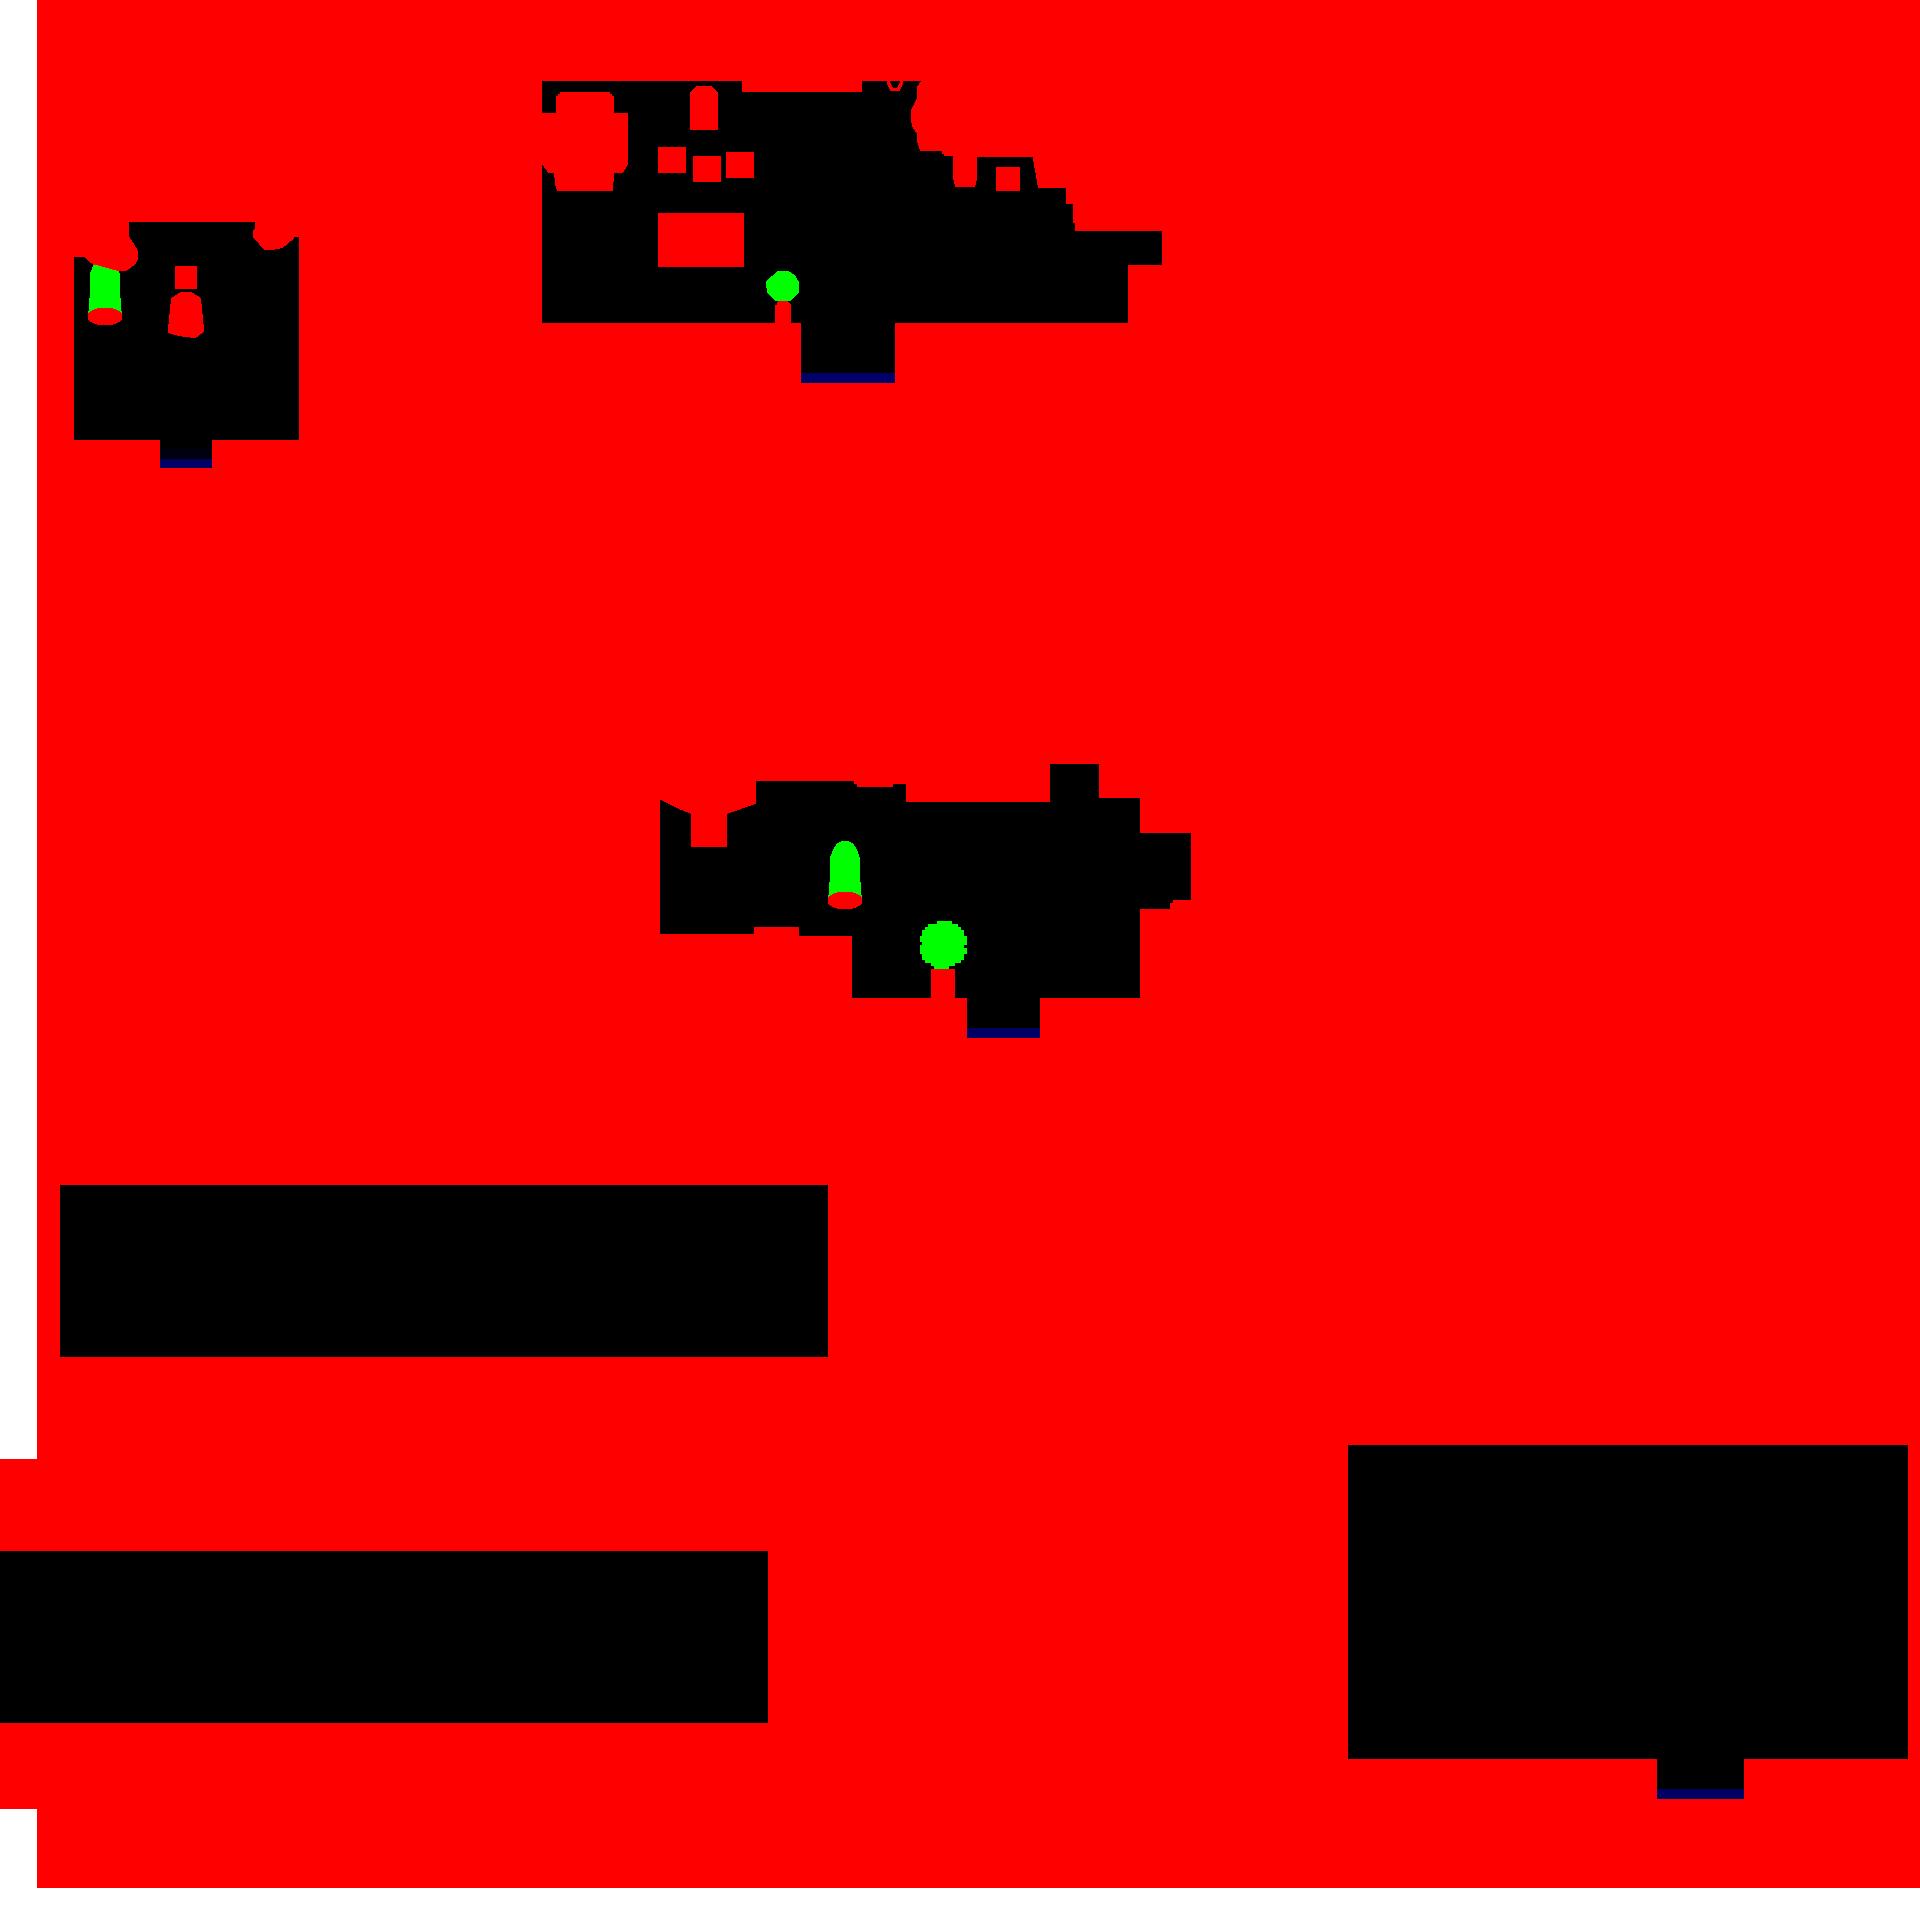
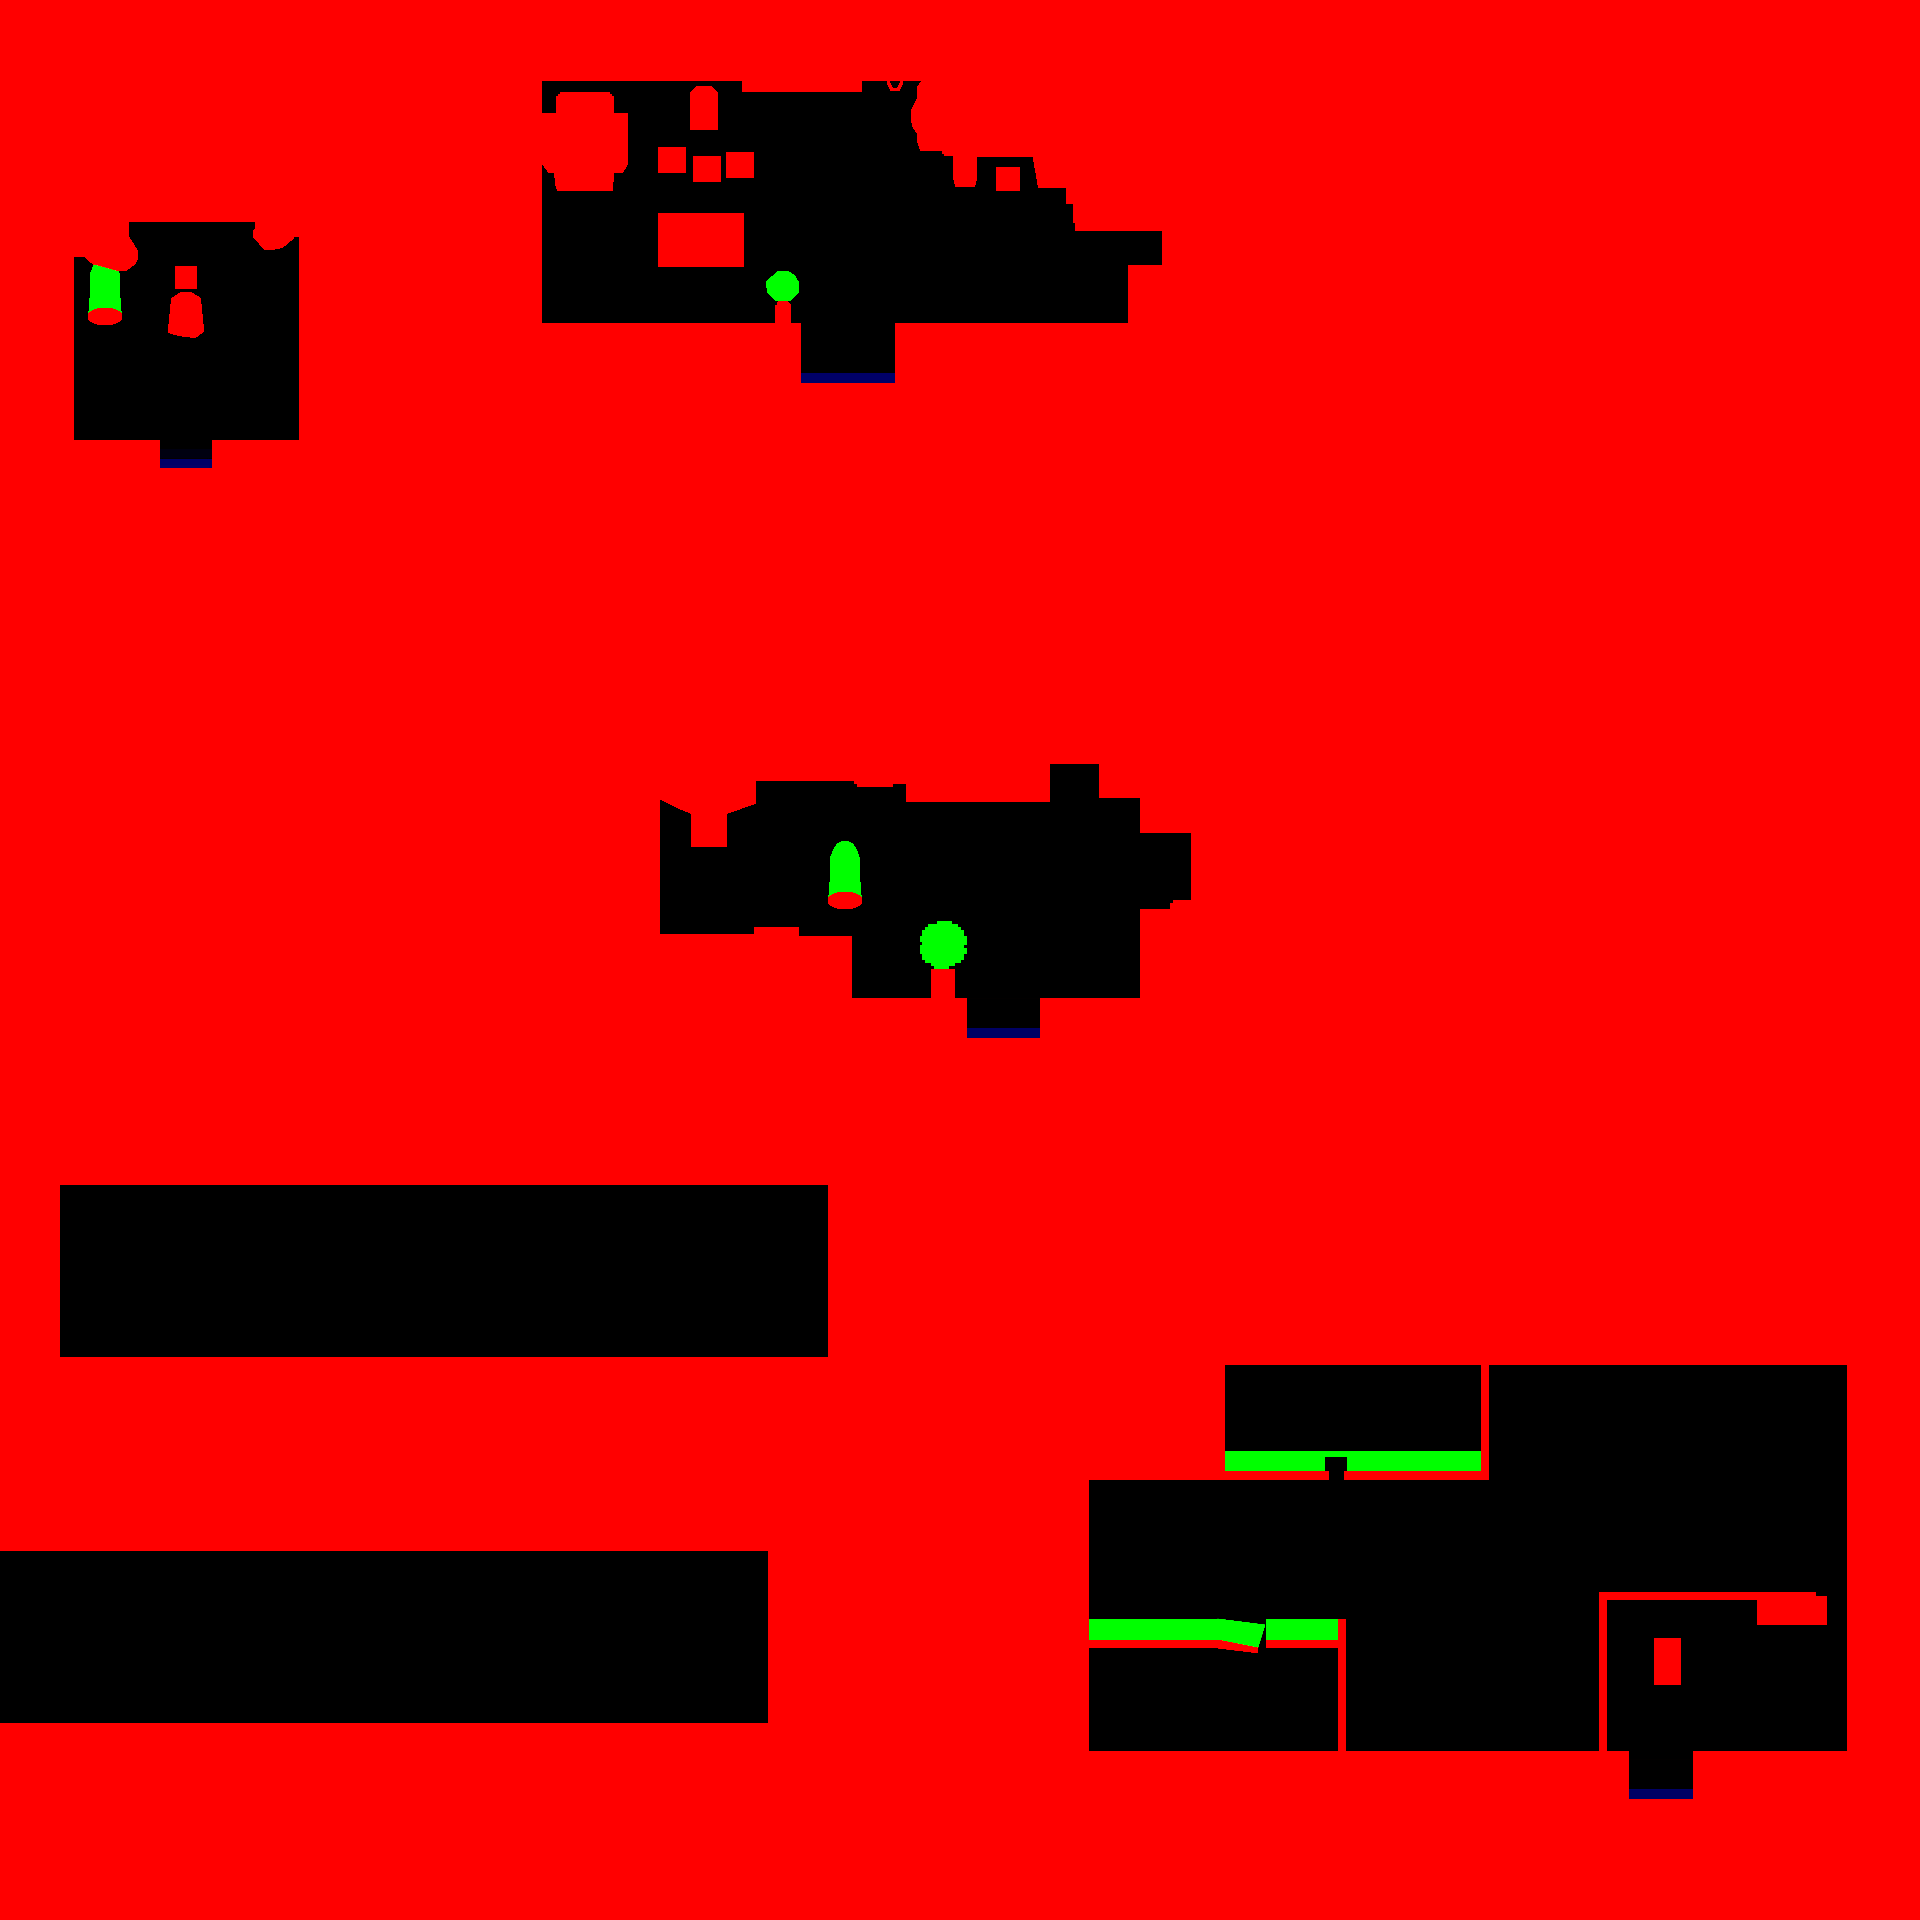
(+) screen jail done

Changed region(s): [[0.5625, 0.6875, 1.0, 0.9375], [0.0, 0.9375, 1.0, 1.0], [0.0, 0.0, 0.0312, 0.7812]]

diff --git a/src/gameplay/teleport_player_house.c b/src/gameplay/teleport_player_house.c
@@ -40,13 +40,15 @@ void teleport_tente(rpg_t *rpg)
 
 void teleport_jail(rpg_t *rpg)
 {
-    printf("%0.0f %0.0f\n", rpg->spritesheet[rpg->player_stats.skin].pos.x, rpg->spritesheet[rpg->player_stats.skin].pos.y);
     if (rpg->screen[SC_MAIN_MAP].active) {
-        set_view(rpg, rpg->screen[SC_JAIL].view_pos);
+        rpg->spritesheet[rpg->player_stats.skin].pos.x -= 40;
         toggle_spritesheet_scene(rpg, false, SC_MAIN_MAP);
         toggle_spritesheet_scene(rpg, true, SC_JAIL);
+        set_view(rpg, rpg->screen[SC_JAIL].view_pos);
     } else {
+        rpg->spritesheet[rpg->player_stats.skin].pos.x += 40;
         toggle_spritesheet_scene(rpg, false, SC_JAIL);
         toggle_spritesheet_scene(rpg, true, SC_MAIN_MAP);
+        set_view(rpg, rpg->screen[SC_MAIN_MAP].view_pos);
     }
 }

diff --git a/src/init/init_screens.c b/src/init/init_screens.c
@@ -82,12 +82,8 @@ void init_screens(rpg_t *rpg)
     .view_pos = {SPAWN_X - 30, SPAWN_Y - 170}, .view_zoom = 0.4, screen_base};
     rpg->screen[SC_INVENTORY] = (screen_t){.active = false,
     .view_pos = {WIDTH / 2, HEIGHT / 2}, .view_zoom = 0.4, screen_inventory};
-
-
     rpg->screen[SC_JAIL] = (screen_t){.active = false,
-    .view_pos = {1716, 1742}, .view_zoom = 0.4, screen_jail};
-
-
+    .view_pos = {1716 - 250, 1742 - 200}, .view_zoom = 0.4, screen_jail};
     init_screen_norme(rpg);
     for (int i = 0; i < NBR_SC; ++i)
         rpg->screen[i].clock = sfClock_create();

diff --git a/src/spritesheets/init_spritesheets_rooms.c b/src/spritesheets/init_spritesheets_rooms.c
@@ -31,7 +31,7 @@ void init_spritesheets_rooms(spritesheet_t *spritesheet)
     .clickable = false, .active = false, .change_sprite_on_mouse = false});
     set_one_sprite("assets/img/house/background_jail.png",
     &spritesheet[SP_BACKGROUND_JAIL],
-    (init_sprite_t){{1716, 1742}, {1, 1}, {0, 0, 768, 432},
+    (init_sprite_t){{1716 - 250, 1742 - 200}, {1, 1}, {0, 0, 768, 432},
     .clickable = false, .active = false, .change_sprite_on_mouse = false});
     set_one_sprite("assets/img/donjons/background_grotte.png",
     &spritesheet[SP_BACKGROUND_GROTTE],

diff --git a/src/gameplay/move_player_and_view.c b/src/gameplay/move_player_and_view.c
@@ -51,7 +51,7 @@ void move_player_and_view2(rpg_t *rpg)
         rpg->spritesheet[rpg->player_stats.skin].pos);
     }
     if (rpg->screen[SC_BASE].active || rpg->screen[SC_TENTE].active ||
-    rpg->screen[SC_TAVERNE].active) {
+    rpg->screen[SC_TAVERNE].active || rpg->screen[SC_JAIL].active) {
         move_player_and_view_horizontal(rpg, rpg->imgs_colors.backgrounds,
         rpg->spritesheet[rpg->player_stats.skin].pos, false);
         move_player_and_view_vertical(rpg, rpg->imgs_colors.backgrounds,

diff --git a/src/utils/check_screens.c b/src/utils/check_screens.c
@@ -19,5 +19,5 @@ bool is_in_gameplay(rpg_t *rpg)
     || rpg->screen[SC_GROTTE].active || rpg->screen[SC_INVENTORY].active
     || rpg->screen[SC_CEMETERY].active ||
     rpg->screen[SC_VICTORY_CEMETERY].active || rpg->screen[SC_TENTE].active
-    || rpg->screen[SC_TAVERNE].active);
+    || rpg->screen[SC_TAVERNE].active || rpg->screen[SC_JAIL].active);
 }
